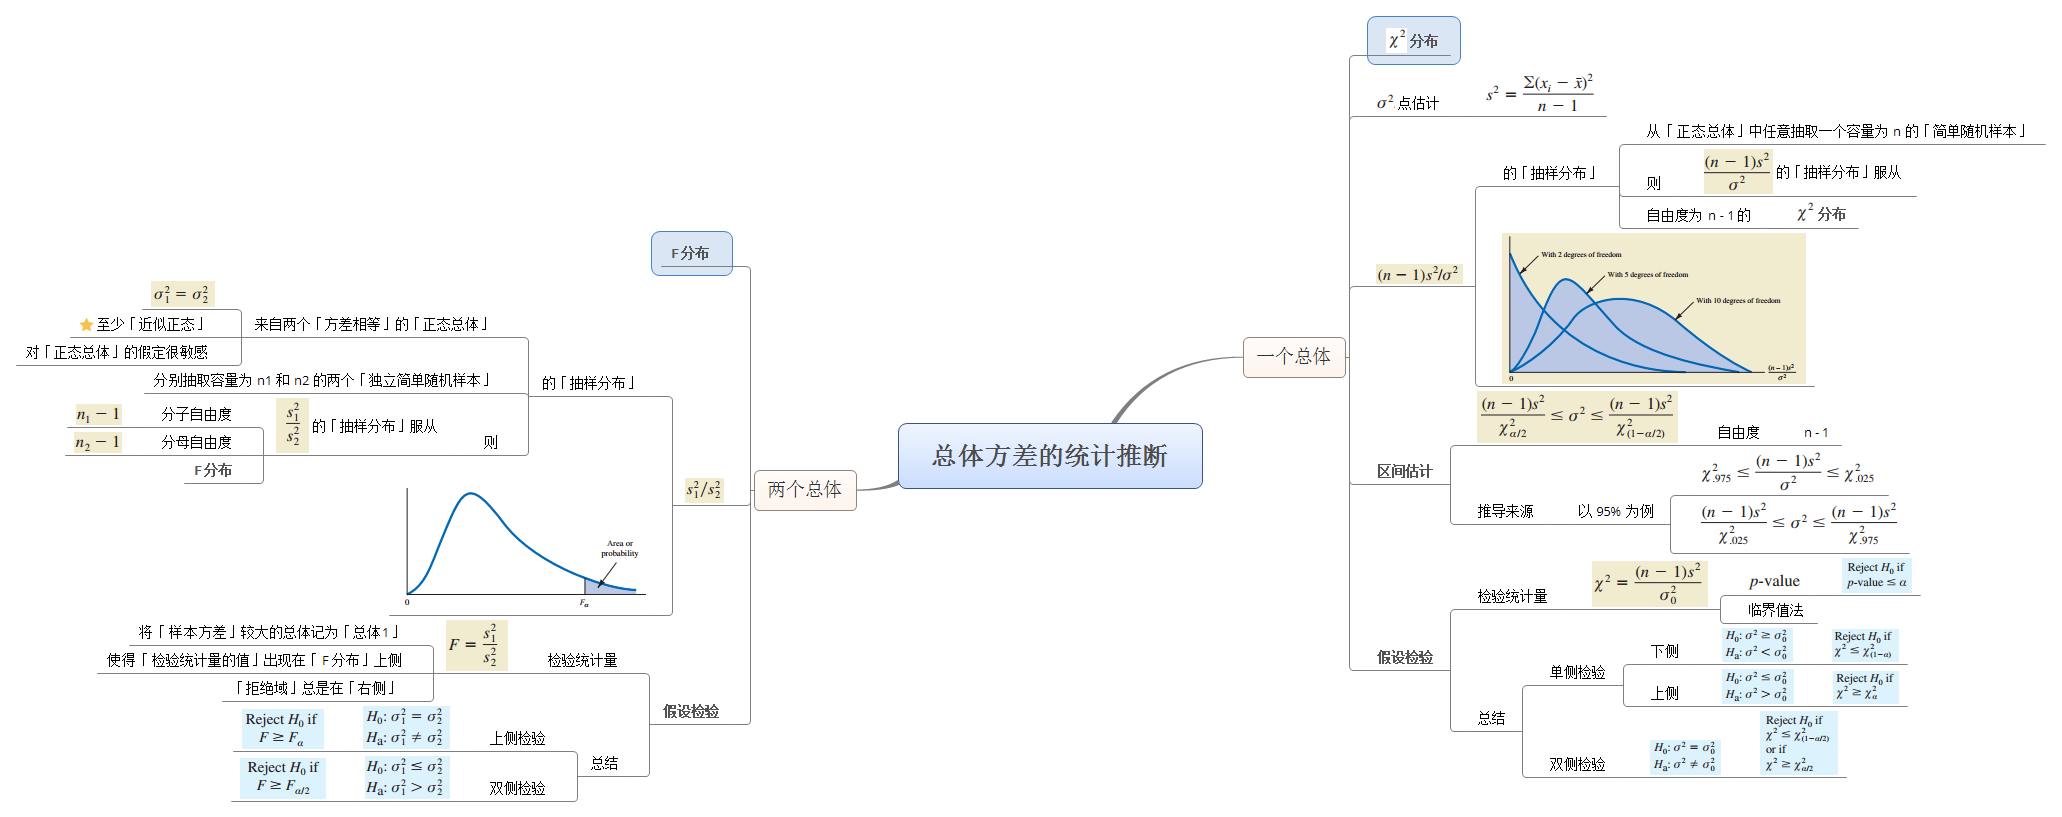
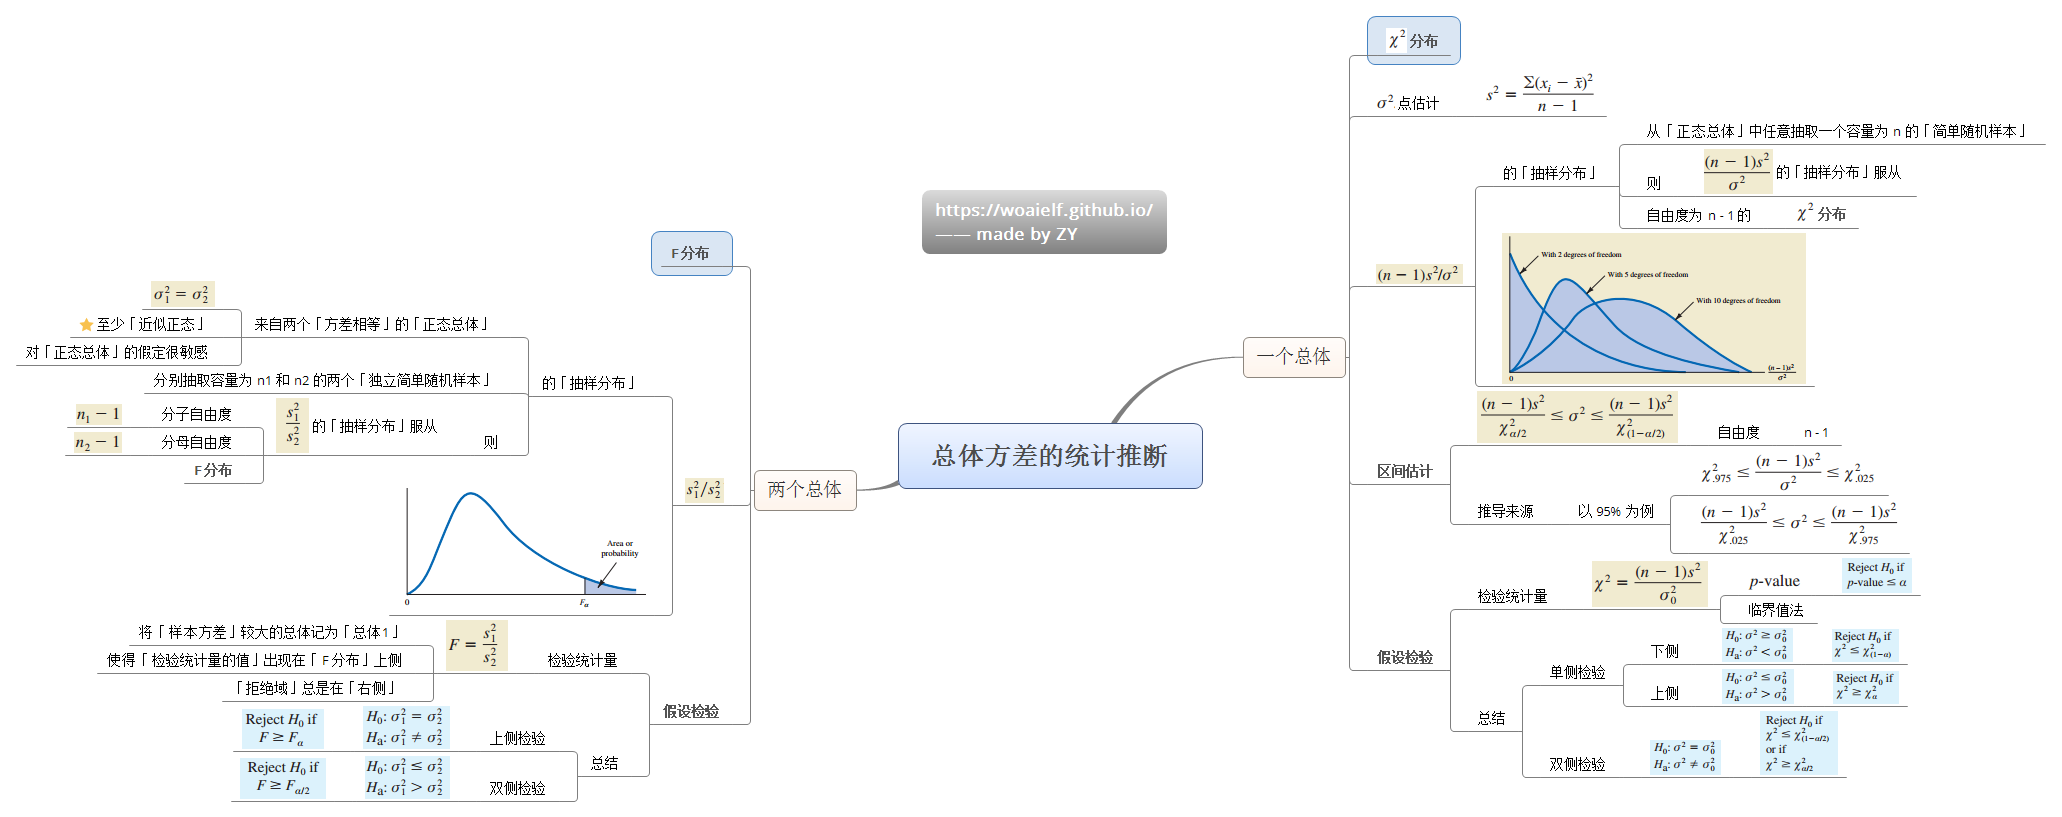
1

Changed region(s): [[0.4345, 0.2142, 0.5897, 0.3366]]

diff --git a/_posts/2017-01-05-sta-8.md b/_posts/2017-01-05-sta-8.md
@@ -1,0 +1,27 @@
+---
+layout: post
+title: "【笔记】统计（八）实验设计&方差分析"
+categories: 数据科学
+tags: 统计
+author: ZY
+---
+
+* content
+{:toc}
+
+本文是我的「统计学习笔记」第八篇。
+
+
+
+
+## Update Log
+- 2017/01/05
+
+## 思维导图
+默认阅读顺序：**从右→左，顺时针方向**。
+![](https://raw.githubusercontent.com/woaielf/woaielf.github.io/master/_posts/Pic/1701/170105-1.png)
+
+
+## 参考资料
+> 《STATISTICS FOR BUSINESS AND ECONOMICS》12e David R. Anderson etc.
+
